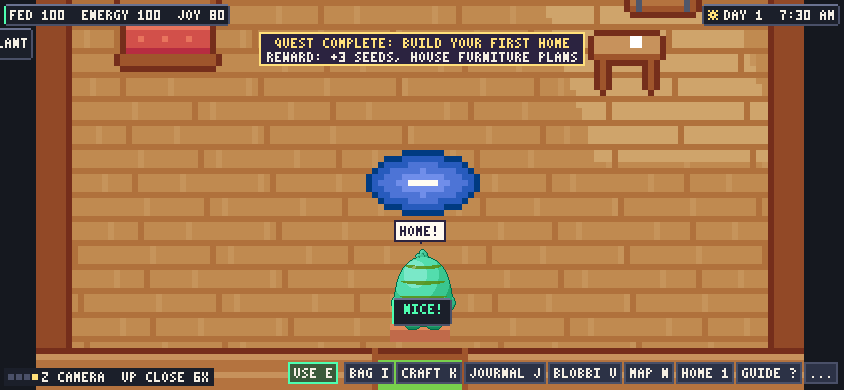
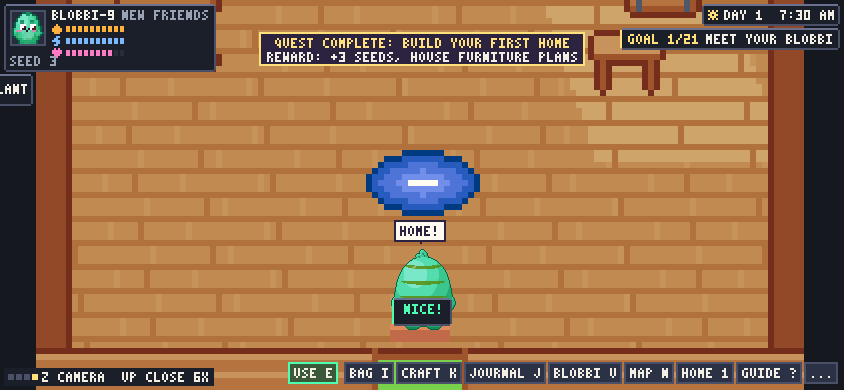
fix(hud): the original HUD at every camera zoom
Up close no longer swaps the status card (portrait, health, hunger, energy)
for a needs chip or hides the goal box: the camera never changes the HUD's
design. The layout already adapts to the screen, not to the zoom. A test
checks the card is drawn identically in all four modes on desktop and phone
sizes. Camera screenshots regenerated.

Changed region(s): [[0.0, 0.0, 0.2773, 0.2769], [0.7085, 0.0615, 1.0, 0.1538]]

diff --git a/tests/camera-upclose.test.ts b/tests/camera-upclose.test.ts
@@ -1,6 +1,6 @@
 /**
  * M10 "up close", the fourth camera mode: 6× (whole blocks, never blurred), the Blobbi natively at 72 px, following
- * without jitter (tests/walk-stability), inside the world's and the room's bounds, a compact HUD, a camera
+ * without jitter (tests/walk-stability), inside the world's and the room's bounds, the same HUD as every mode, a camera
  * indicator a finger can tap, and every interaction the same as in any other mode.
  */
 import { describe, expect, it } from 'vitest';
@@ -82,22 +82,37 @@ describe('up close', () => {
     }
   });
 
-  it('a compact HUD: a needs chip instead of the status card, no goal box; the indicator can be tapped', () => {
+  it('the same HUD as every other mode (M10 phase B); the indicator can be tapped', () => {
     const live = scene();
     const view = new ViewRenderer(live, new LiveRenderer(live));
     const b = worldBounds(live.world);
-    const draw = (mode: 'closeup' | 'upclose') => {
+    const hud = (mode: 'overview' | 'exploration' | 'closeup' | 'upclose', W: number, H: number) => {
       const cam = new ViewCamera(mode);
-      const v = cam.update(0, live.cameraTarget(), 1280, 720, b, true);
-      view.render(v, cam.restScale(mode, 1280, 720, b), live.clock.time, DEFAULT_LIVE_OPTIONS, { ...DEFAULT_VIEW_UI, lighting: false });
-      return (view as unknown as { hudBox: { right: number; bottom: number } }).hudBox;
+      const v = cam.update(0, live.cameraTarget(), W, H, b, true);
+      const ui = { ...DEFAULT_VIEW_UI, lighting: false, indicator: false, goals: false, prompt: false };
+      const bare = view.render(v, cam.restScale(mode, W, H, b), live.clock.time, DEFAULT_LIVE_OPTIONS, { ...ui, hud: false }).clone();
+      const screen = view.render(v, cam.restScale(mode, W, H, b), live.clock.time, DEFAULT_LIVE_OPTIONS, ui);
+      // The status card: what the HUD draws over the world in the top-left corner, the same in every mode.
+      const box = (view as unknown as { hudBox: { right: number; bottom: number } }).hudBox;
+      const px: string[] = [];
+      for (let y = 0; y < box.bottom; y++) for (let x = 0; x < box.right; x++) if (screen.get(x, y) !== bare.get(x, y)) px.push(`${x},${y}:${screen.get(x, y)}`);
+      return { box, px };
     };
-    const full = draw('closeup');
-    const compact = draw('upclose');
-    expect(compact.bottom).toBeLessThan(full.bottom / 2);
-    const box = view.indicatorBox!;
-    expect(box).not.toBeNull();
-    expect(view.onIndicator(box.x + box.w / 2, box.y + box.h / 2)).toBe(true);
+    for (const [W, H] of [[1280, 720], [844, 390]]) {
+      const ref = hud('exploration', W, H);
+      for (const mode of ['overview', 'closeup', 'upclose'] as const) {
+        const h = hud(mode, W, H);
+        expect(h.box).toEqual(ref.box);
+        // Every card pixel of the reference is drawn identically (world pixels showing through may differ).
+        const drawn = new Set(h.px);
+        expect(ref.px.filter((p) => !drawn.has(p)).length).toBeLessThan(ref.px.length * 0.02);
+      }
+    }
+    const cam = new ViewCamera('upclose');
+    const v = cam.update(0, live.cameraTarget(), 1280, 720, b, true);
+    view.render(v, 6, live.clock.time, DEFAULT_LIVE_OPTIONS, { ...DEFAULT_VIEW_UI, lighting: false });
+    const ib = view.indicatorBox!;
+    expect(view.onIndicator(ib.x + ib.w / 2, ib.y + ib.h / 2)).toBe(true);
     expect(view.onIndicator(640, 360)).toBe(false);
   });
 

diff --git a/src/render/view-renderer.ts b/src/render/view-renderer.ts
@@ -338,11 +338,10 @@ export class ViewRenderer {
       this.drawText(screen, t, (t.x - originX) * s, (y - originY) * s, ui.uiScale);
     }
     this.hudBox = null;
-    // Up close (M10) the HUD steps back: a needs chip instead of the status card, the time without the goal box.
-    const compact = view.mode === 'upclose';
-    if (ui.hud) this.drawHud(screen, ui.uiScale, compact);
+    // The same HUD at every camera scale (M10 phase B: the zoom never changes its design).
+    if (ui.hud) this.drawHud(screen, ui.uiScale);
     // The goal box, the prompt and goal notices are part of the HUD unless set on their own.
-    if (ui.goals ?? ui.hud) this.drawGoal(screen, ui.uiScale, compact);
+    if (ui.goals ?? ui.hud) this.drawGoal(screen, ui.uiScale);
     if (ui.prompt ?? ui.hud) this.drawPrompt(screen, ui.uiScale, ui.bottom ?? 0);
     if (ui.hud) this.drawNotice(screen, ui.uiScale);
     this.indicatorBox = null;
@@ -388,7 +387,7 @@ export class ViewRenderer {
     screen.blit(buf, x, y);
   }
 
-  private drawHud(screen: PixelBuffer, ui: number, compact = false): void {
+  private drawHud(screen: PixelBuffer, ui: number): void {
     const live = this.live;
     const palette = paletteFor(live.world.options.palette);
     // The status card: portrait, name, friendship, the three needs and what is carried.
@@ -404,10 +403,7 @@ export class ViewRenderer {
     const away = live.getPresenceState() !== 'present';
     const level = friendLevel(live.companion.friendship);
     const info: StatusInfo = { name: live.blobbi.seed.length > 14 ? 'BLOBBI' : live.blobbi.seed, title: FRIEND_TITLES[Math.max(0, level - 1)], fed: steps(c.hunger), energy: steps(c.energy), joy: steps(c.happiness), carried, face: null, away };
-    // Compact: the three needs on one chip (the card's own words), nothing else.
-    const status = compact
-      ? this.cachedText(`needs|${info.fed}|${info.energy}|${info.joy}|${away}`, () => toastCard(null, away ? 'AWAY' : `FED ${info.fed}  ENERGY ${info.energy}  JOY ${info.joy}`), ui)
-      : this.cachedText(`status|${JSON.stringify(info)}`, () => statusCard({ ...info, face: this.portrait() }), ui);
+    const status = this.cachedText(`status|${JSON.stringify(info)}`, () => statusCard({ ...info, face: this.portrait() }), ui);
     screen.blit(status, 2 * ui, 2 * ui);
     let bottom = 2 * ui + status.height;
     // Item toasts under the card, newest last; they slide in (unless motion is reduced) and leave on time. Sim
@@ -450,7 +446,7 @@ export class ViewRenderer {
   private hudBox: { right: number; bottom: number } | null = null;
 
   /** The time and weather chip, then the current objective, in the top-right corner. */
-  private drawGoal(screen: PixelBuffer, ui: number, compact = false): void {
+  private drawGoal(screen: PixelBuffer, ui: number): void {
     const live = this.live;
     const t = live.worldTime;
     const hour = hourAt(t);
@@ -472,7 +468,7 @@ export class ViewRenderer {
       return;
     }
     const goal = currentObjective(live.objectives);
-    if (!goal || compact) return;
+    if (!goal) return;
     const n = OBJECTIVES.indexOf(goal) + 1;
     const ctx = { tally: live.tally, inventory: live.inventory, buildings: live.buildings, worldTime: live.worldTime };
     const progress = goal.progress ? goal.progress(ctx) : '';

diff --git a/src/render/view-camera.ts b/src/render/view-camera.ts
@@ -6,7 +6,7 @@
  *   overview     1× world pixels, the Blobbi drawn natively at 12 px, centred on the turtle (whole animal in view)
  *   exploration  2×, the Blobbi drawn natively at 24 px, follows the Blobbi
  *   close-up     4×, the Blobbi drawn natively at 48 px, follows the Blobbi
- *   up close     6× (M10), the Blobbi drawn natively at 72 px, follows the Blobbi, a compact HUD
+ *   up close     6× (M10), the Blobbi drawn natively at 72 px, follows the Blobbi (the same HUD as every mode)
  *
  * The Blobbi is drawn at three quarters of its world size in every mode, so it keeps one proportion to the
  * shelter, trees and rocks whatever the zoom.

diff --git a/docs/testing/MANUAL-TEST-PLAN.md b/docs/testing/MANUAL-TEST-PLAN.md
@@ -331,7 +331,7 @@ refuses them (GROW-09).
 | OCEAN-01 | A wide or large screen (1920×1080 or more) | Overview on each Carrier; resize the window. | No rectangle: the sea continues past the world's edge with the same streaks and waves; no seam where the world ends. | NOT TESTED | Automated: `tests/open-sea.test.ts`; images `examples/m10/ocean-*.png` |
 | OCEAN-02 | Overview | Switch camera modes (Z) and walk along the coast; watch the intro cinematic. | The sea stays seamless while the camera moves and eases; the cinematic is unchanged. | NOT TESTED | |
 | UPCLOSE-01 | Any island | Press Z until UP CLOSE 6X; walk around outdoors and indoors. | Crisp square pixels (no blur); the Blobbi centred and steady (no jitter); the view never shows past the world's or the room's edge. | NOT TESTED | Automated: `tests/camera-upclose.test.ts`, `tests/walk-stability.test.ts` |
-| UPCLOSE-02 | Up close | Gather, chop, fish, enter the house, open menus. | Everything works as in other modes; the HUD is compact (a needs chip, the time, prompts, notices). | NOT TESTED | Images `examples/m10/camera-*.png` |
+| UPCLOSE-02 | Up close | Gather, chop, fish, enter the house, open menus. | Everything works as in other modes; the HUD is the original one (status card with health, hunger, energy; goal box; time), the same as at every other zoom (M10 phase B). | NOT TESTED | Images `examples/m10/camera-*.png` |
 | UPCLOSE-03 | Reload the page in up close | Reload. | The game opens in up close again (the choice is remembered). | NOT TESTED | |
 | UPCLOSE-04 | Phone or touch screen | Tap the camera indicator (bottom left) repeatedly. | Each tap moves to the next camera mode, through all four. | NOT TESTED | |
 | SEA-01 | Any island, exploration | Watch the sea for a few minutes by day and at night. | Small fish schools in the shallows, jellyfish drifting (glowing softly at night), now and then a leaping dolphin; never crowded, never over land. | NOT TESTED | Automated: `tests/marine-life.test.ts`; images `examples/m10/wildlife-*.png` |

diff --git a/docs/game-design/GAMEPLAY-SYSTEMS.md b/docs/game-design/GAMEPLAY-SYSTEMS.md
@@ -21,7 +21,7 @@ The game as the player meets it, system by system, with the numbers the code use
 | B | build mode (cycles buildings and decorations) | idem |
 | M | management mode (move, restyle, pick up placed things); X/Delete puts the selected one back in the bag | idem |
 | P | plant a tree (the M1 sapling) | idem |
-| Z, mouse wheel, tap the camera indicator | camera: overview 1×, exploration 2×, close-up 4×, up close 6× (M10, compact HUD) | `src/render/view-camera.ts` |
+| Z, mouse wheel, tap the camera indicator | camera: overview 1×, exploration 2×, close-up 4×, up close 6× (M10; the HUD is the same at every scale) | `src/render/view-camera.ts` |
 | O | hide or show the goal box | idem |
 
 Menus pause the world and take every key; mouse and touch work in every menu. M8: the menu bar (and, in build,
